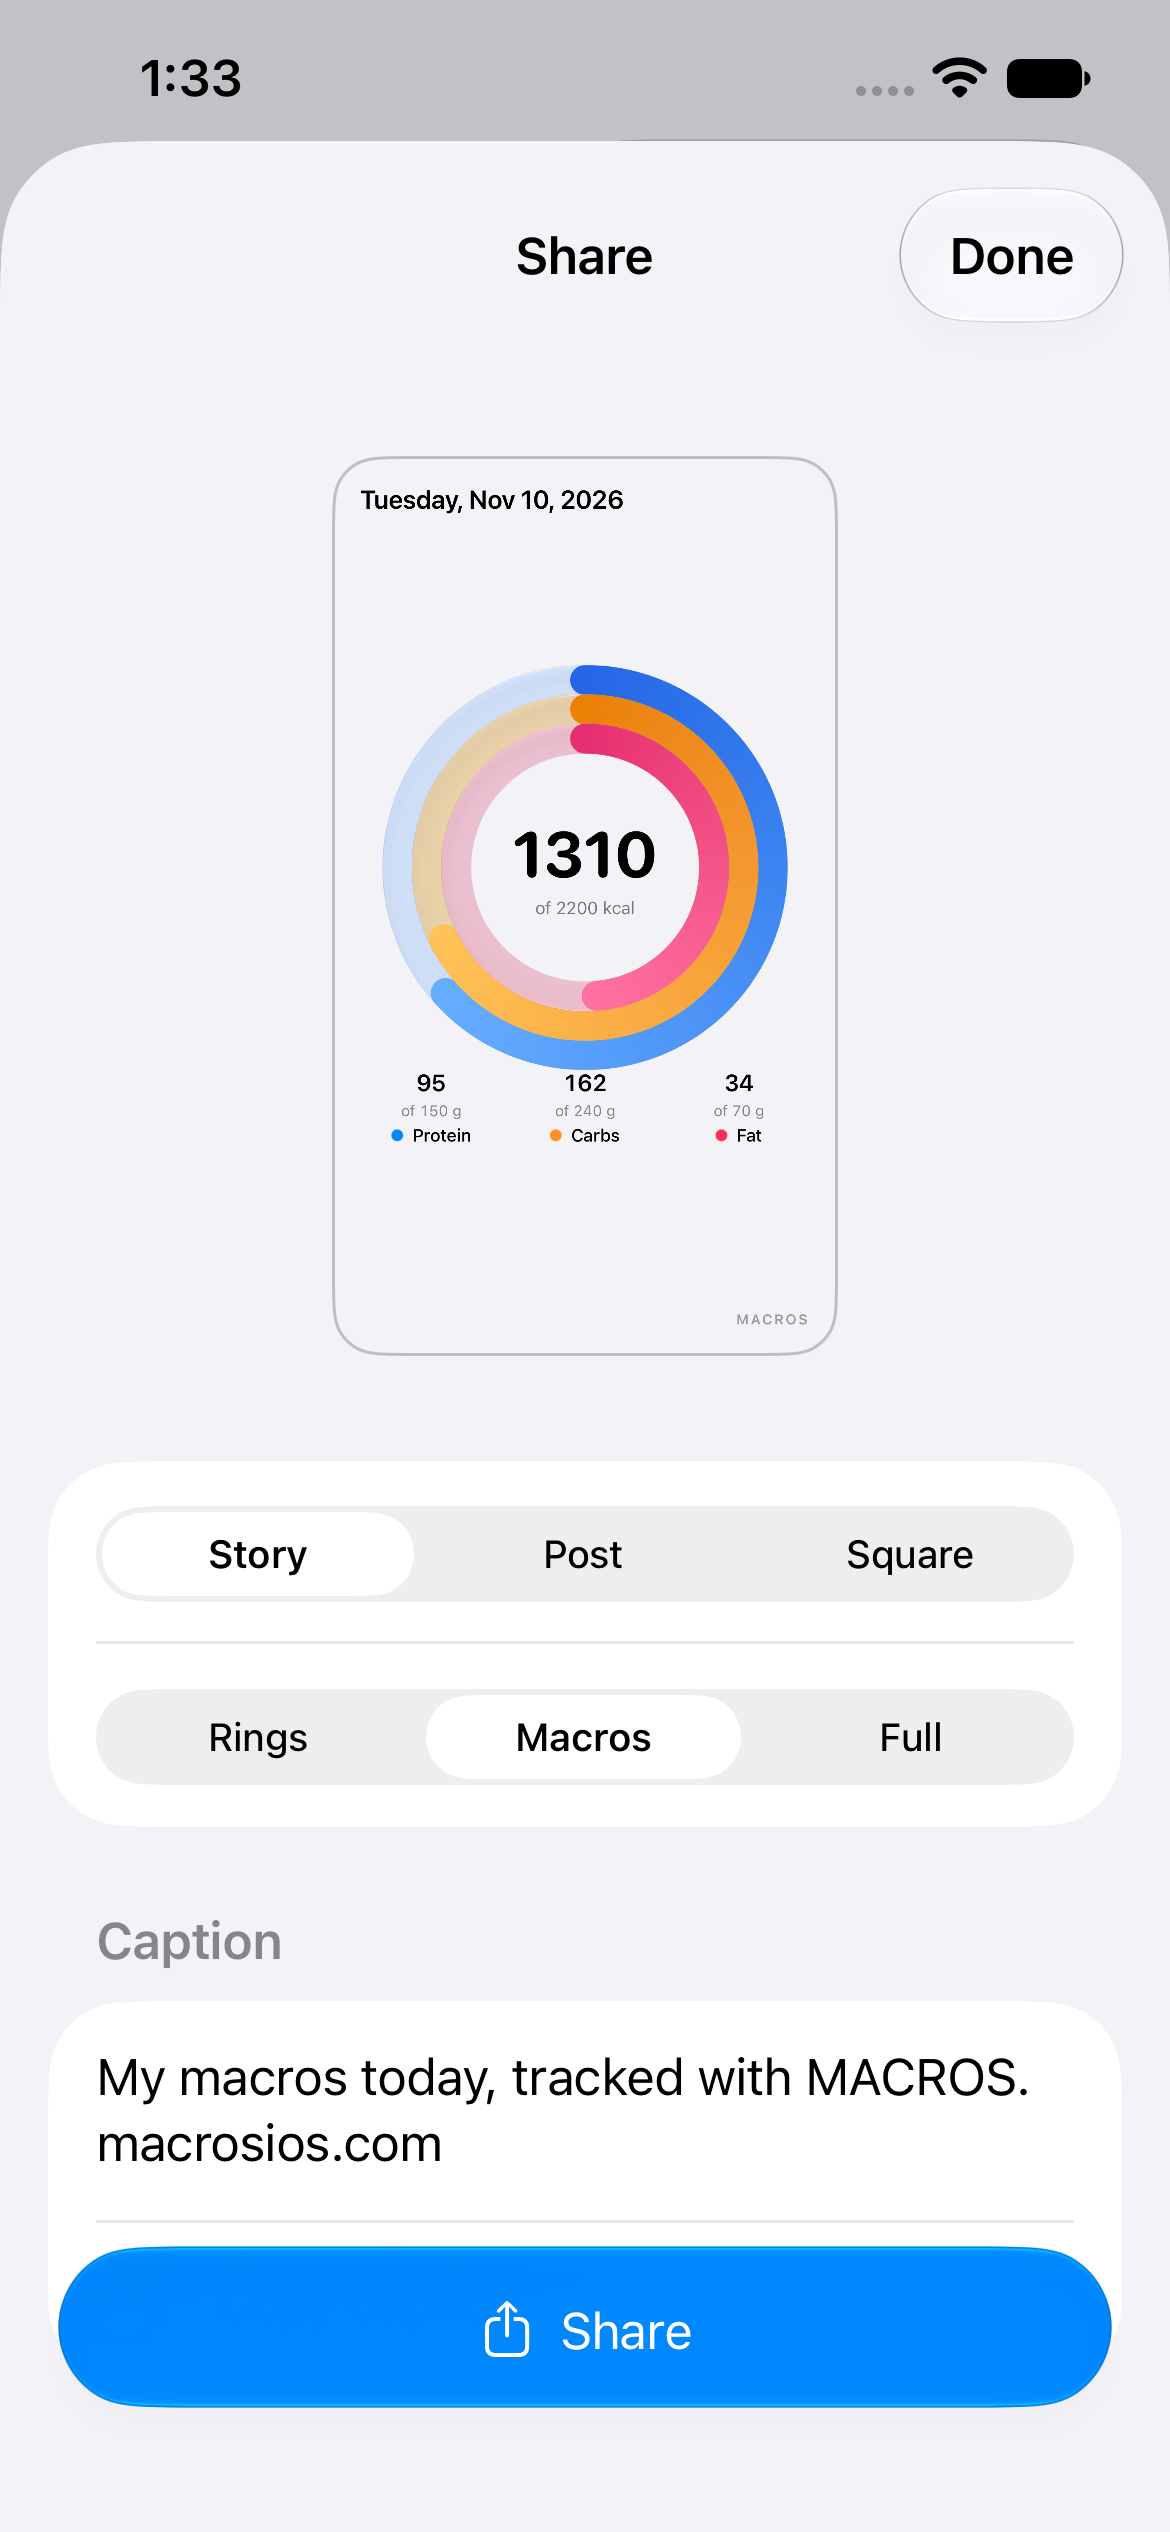
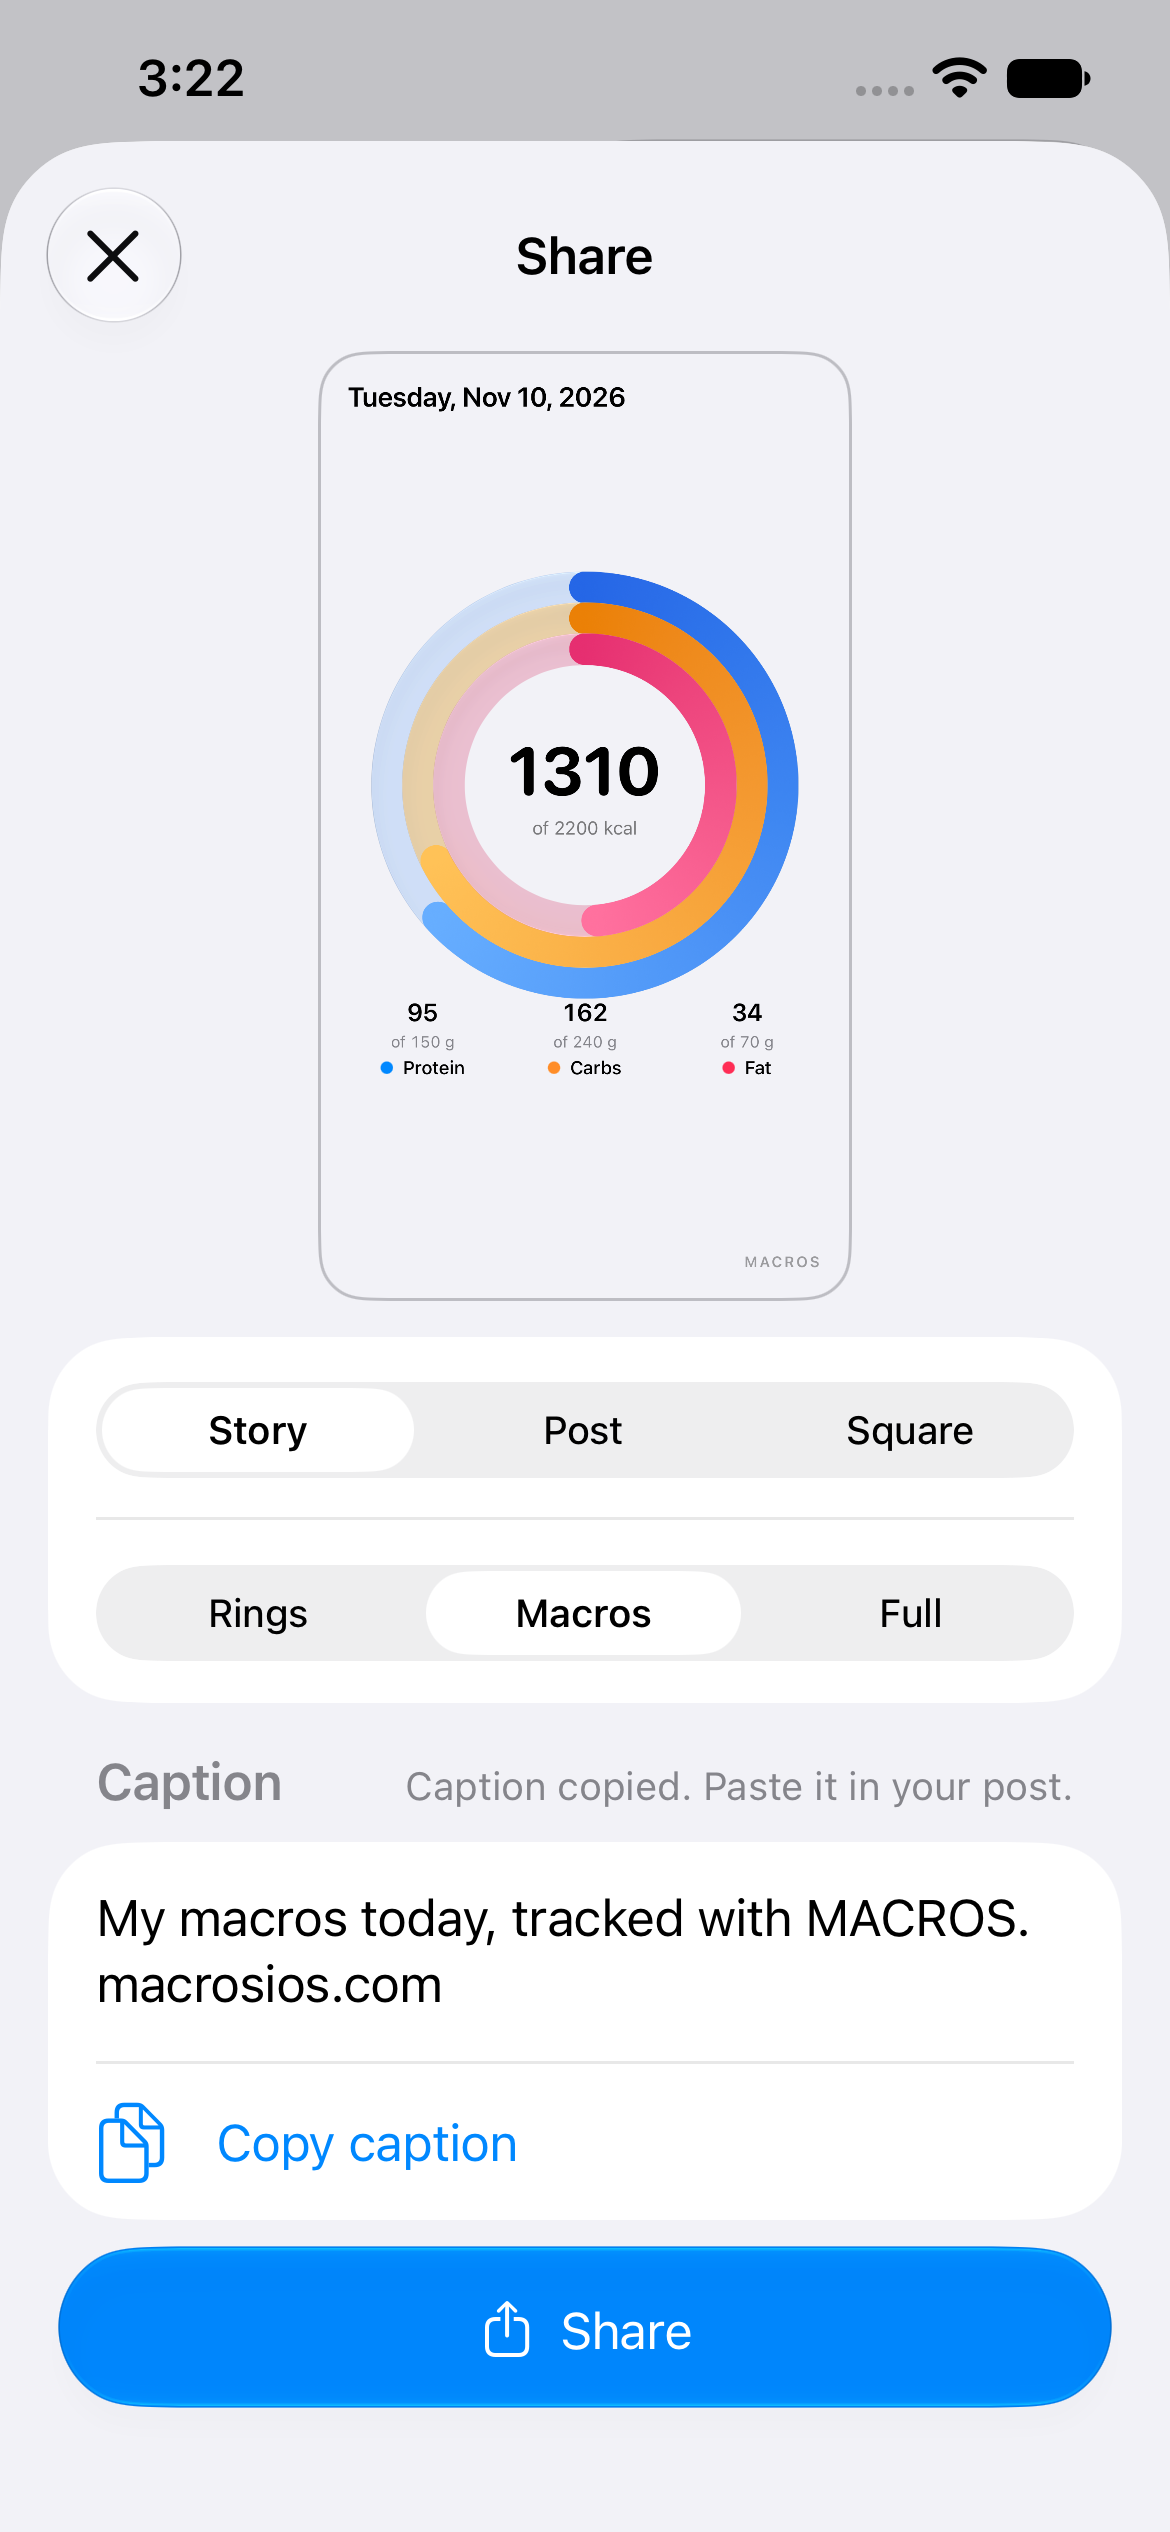
feat: show caption copied note in the caption header, add share sheet screenshots

diff --git a/cal-macro-tracker/Features/Dashboard/ShareScreen.swift b/cal-macro-tracker/Features/Dashboard/ShareScreen.swift
@@ -124,12 +124,18 @@ struct ShareScreen: View {
             Button("Copy caption", systemImage: "doc.on.doc", action: copyCaption)
                 .disabled(caption.isEmpty)
         } header: {
-            Text("Caption")
-        } footer: {
-            Text("Caption copied. Paste it in your post.")
-                .opacity(captionWasCopied ? 1 : 0)
-                .accessibilityHidden(!captionWasCopied)
-                .animation(.easeOut(duration: 0.2), value: captionWasCopied)
+            // The pinned Share button covers a footer at default size, so the note lives in the header.
+            HStack(alignment: .firstTextBaseline) {
+                Text("Caption")
+                Spacer()
+                if captionWasCopied {
+                    Text("Caption copied. Paste it in your post.")
+                        .font(.footnote)
+                        .multilineTextAlignment(.trailing)
+                        .transition(.opacity)
+                }
+            }
+            .animation(.easeOut(duration: 0.2), value: captionWasCopied)
         }
     }
 
